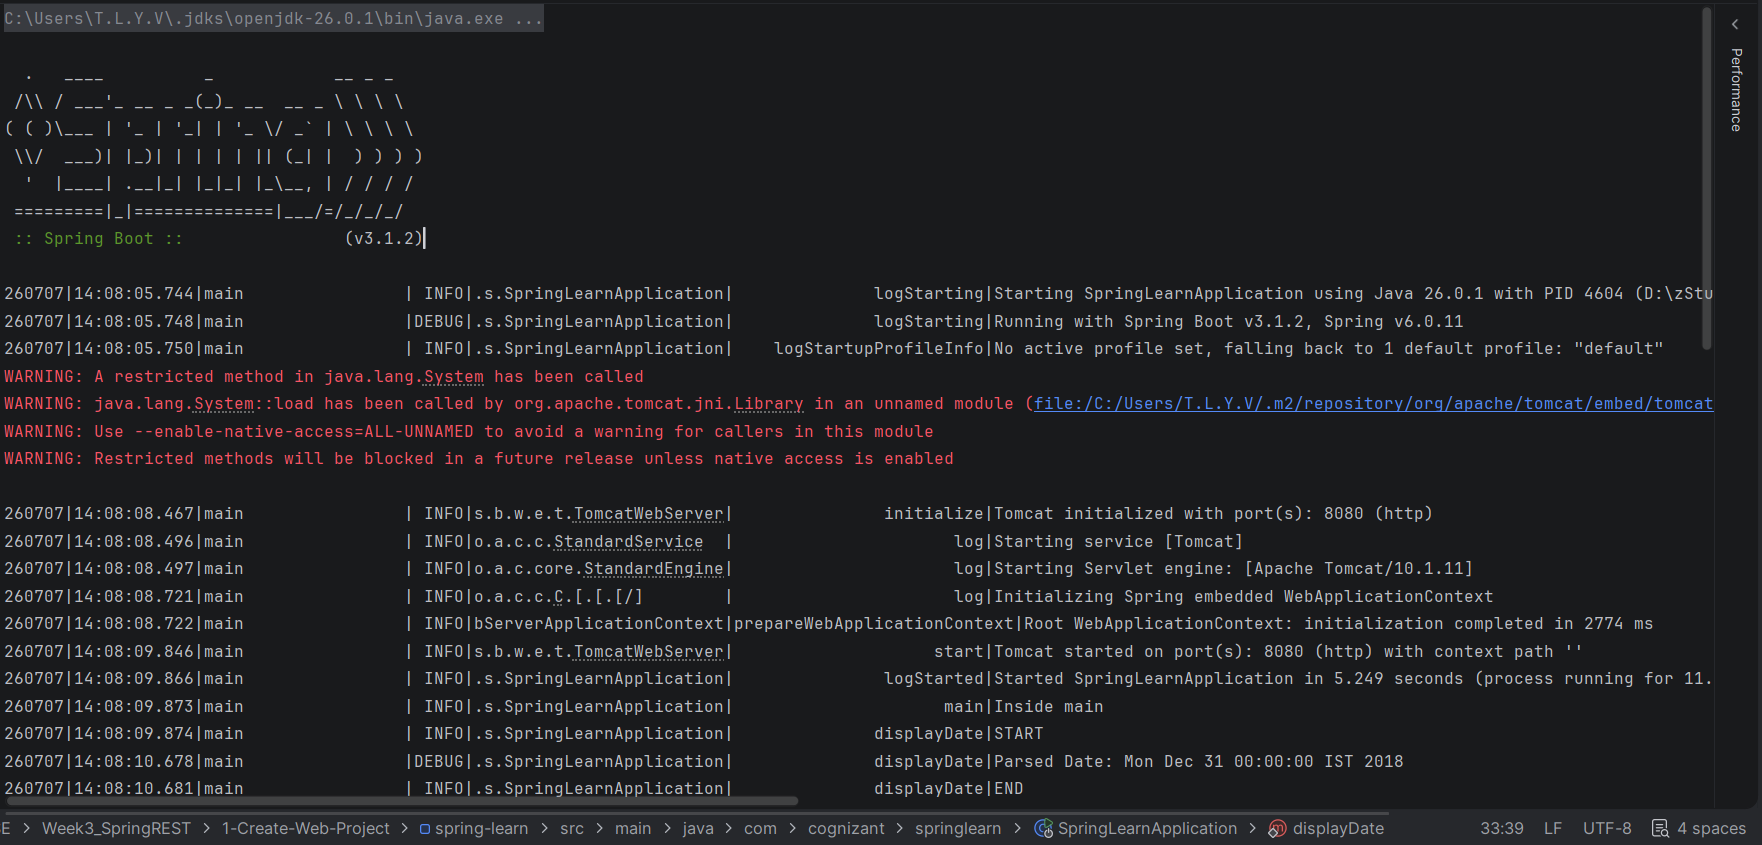
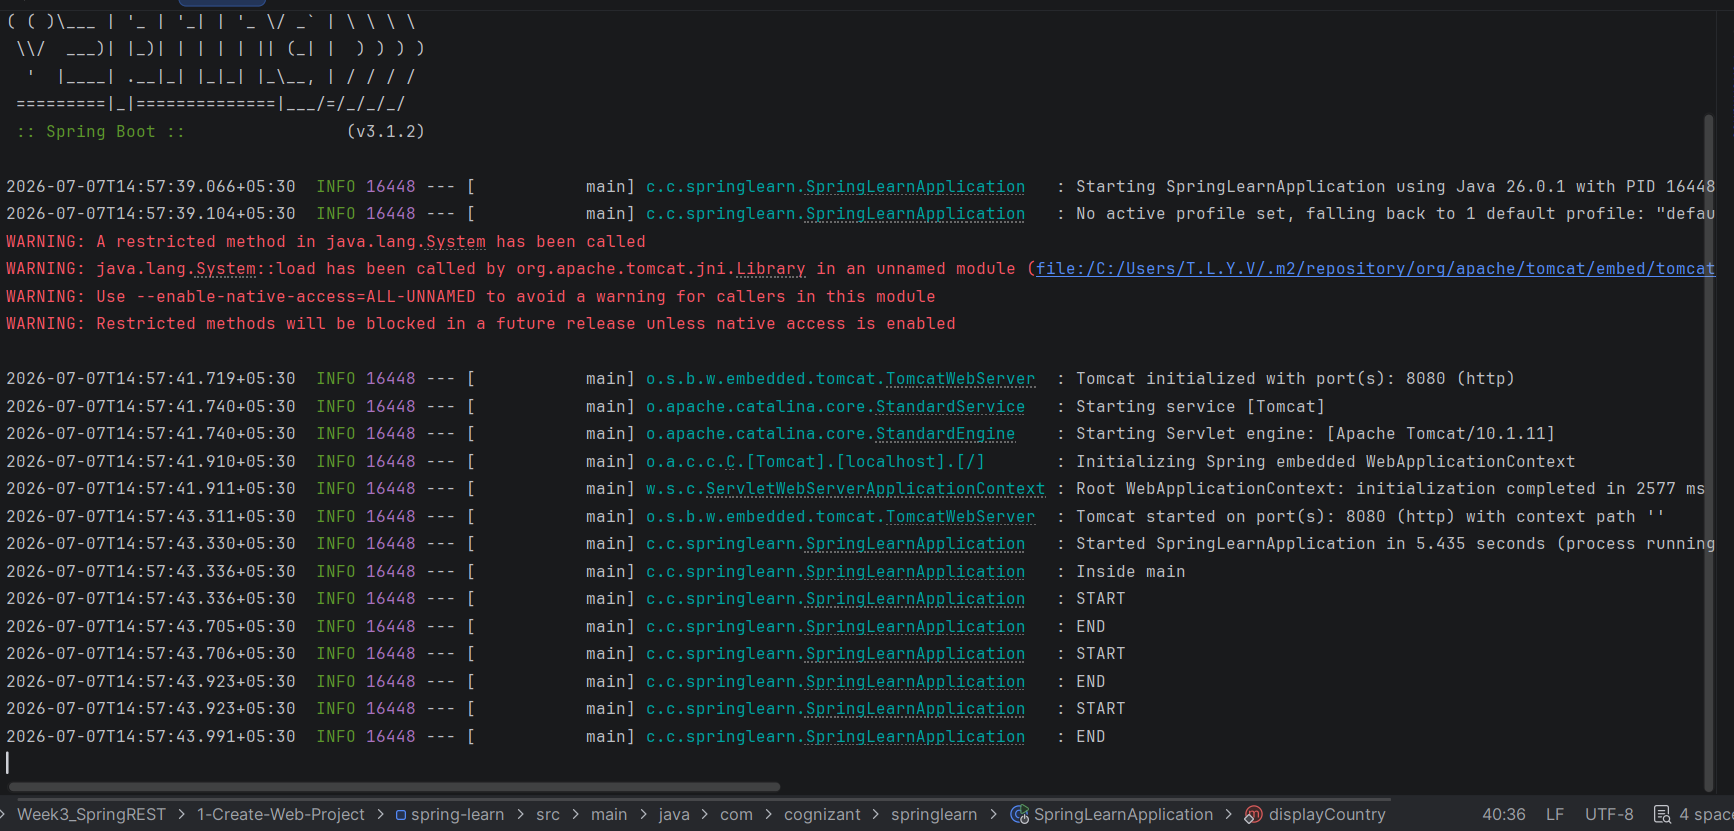
feat: complete Spring REST Web EX04 - Load Country from Spring Configuration XML separate folder

diff --git a/Week3_SpringREST/4-Load-Country-XML/spring-learn-country/src/main/java/com/cognizant/springlearn/Country.java b/Week3_SpringREST/4-Load-Country-XML/spring-learn-country/src/main/java/com/cognizant/springlearn/Country.java
@@ -1,0 +1,37 @@
+package com.cognizant.springlearn;
+
+import org.slf4j.Logger;
+import org.slf4j.LoggerFactory;
+
+public class Country {
+    private static final Logger LOGGER = LoggerFactory.getLogger(Country.class);
+    private String code;
+    private String name;
+
+    public Country() {
+        LOGGER.debug("Inside Country Constructor.");
+    }
+
+    public String getCode() {
+        return code;
+    }
+
+    public void setCode(String code) {
+        LOGGER.debug("Setting Code: {}", code);
+        this.code = code;
+    }
+
+    public String getName() {
+        return name;
+    }
+
+    public void setName(String name) {
+        LOGGER.debug("Setting Name: {}", name);
+        this.name = name;
+    }
+
+    @Override
+    public String toString() {
+        return "Country [code=" + code + ", name=" + name + "]";
+    }
+}

diff --git a/Week3_SpringREST/4-Load-Country-XML/spring-learn-country/src/main/java/com/cognizant/springlearn/SpringLearnApplication.java b/Week3_SpringREST/4-Load-Country-XML/spring-learn-country/src/main/java/com/cognizant/springlearn/SpringLearnApplication.java
@@ -1,0 +1,28 @@
+package com.cognizant.springlearn;
+
+import org.slf4j.Logger;
+import org.slf4j.LoggerFactory;
+import org.springframework.boot.SpringApplication;
+import org.springframework.boot.autoconfigure.SpringBootApplication;
+import org.springframework.context.ApplicationContext;
+import org.springframework.context.support.ClassPathXmlApplicationContext;
+
+@SpringBootApplication
+public class SpringLearnApplication {
+
+    private static final Logger LOGGER = LoggerFactory.getLogger(SpringLearnApplication.class);
+
+    public static void main(String[] args) {
+        SpringApplication.run(SpringLearnApplication.class, args);
+        LOGGER.info("Inside main");
+        displayCountry();
+    }
+
+    public static void displayCountry() {
+        LOGGER.info("START");
+        ApplicationContext context = new ClassPathXmlApplicationContext("country.xml");
+        Country country = context.getBean("country", Country.class);
+        LOGGER.debug("Country : {}", country.toString());
+        LOGGER.info("END");
+    }
+}

diff --git a/Week3_SpringREST/1-Create-Web-Project/README.md b/Week3_SpringREST/1-Create-Web-Project/README.md
@@ -1,8 +1,11 @@
-# Study Notes: Spring Core Bean Context Loading
+# Study Notes: Create a Spring Web Project using Maven
 
-Key Framework Configurations:
-- ApplicationContext manages the collection scope lifecycle events of application tokens.
-- ClassPathXmlApplicationContext looks up local paths inside src/main/resources to build metadata bindings.
-- Singleton Scope means the container structures exactly one mutual object instance per bean definition mapping request.
-- Prototype Scope generates a fresh entity object construction inside heap boundaries every single time getBean is executed.
-- list and ref parameters allow raw collections to absorb external configurations efficiently.
+Key Project Structure:
+- src/main/java: Holds all executable application business logic source code files.
+- src/main/resources: Stores configuration properties, database credentials, and static/XML meta files.
+- src/test/java: Separates testing profiles and JUnit/Mockito validation code wrappers.
+
+Core Architectural Concepts:
+- @SpringBootApplication: Bootstraps the application by bundling Component Scanning, Auto-Configuration, and Java configuration layers.
+- Embedded Tomcat: Allows web projects to be deployed as a standard JAR artifact without requiring manual application server installations.
+- POM.xml: Acts as the central declaration ledger for managing external project dependencies and build plugin chains.

diff --git a/Week3_SpringREST/4-Load-Country-XML/README.md b/Week3_SpringREST/4-Load-Country-XML/README.md
@@ -1,0 +1,10 @@
+# Study Notes: XML Country Bean Metadata Parsing
+
+Core Metadata Concepts:
+- property tag uses setter injection under the hood to set properties on fields after the object is constructed.
+- name attribute corresponds to the setter method name structure following java bean conventions.
+- value attribute contains the literal value being injected into the mapped setter parameter block.
+
+Context Mechanics:
+- ClassPathXmlApplicationContext reads metadata straight out of target paths to populate bean specifications.
+- context.getBean searches the container infrastructure and returns a typed singleton instance.